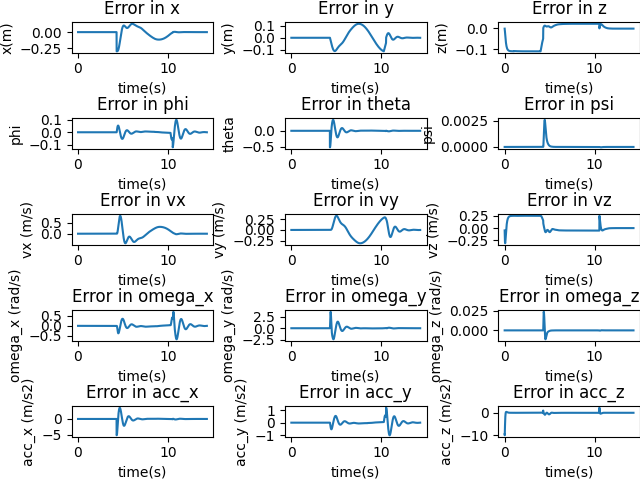
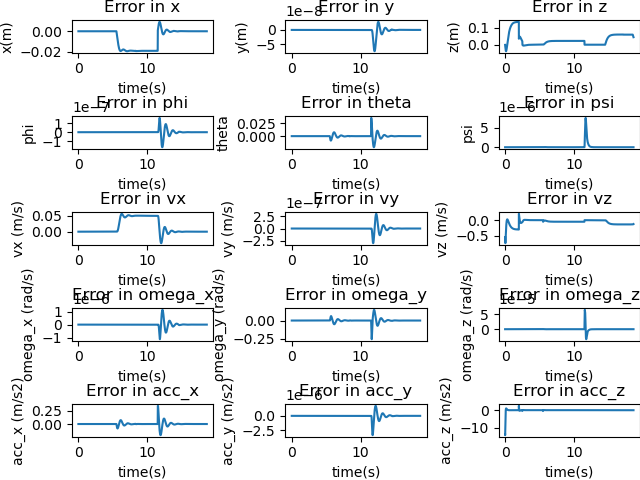
update

diff --git a/traj.py b/traj.py
@@ -17,9 +17,8 @@ class TrajectoryGenerator():
 
     def getDesiredState(self, t):
         ind = max(0, min(len(self.trajectory) - 1, int((t - self.starttime)/self.dt)))
-        # if ind > len(self.trajectory) - 1:
-        #     self.complete = True
-        #     return None
+        if int((t - self.starttime)/self.dt) > len(self.trajectory) - 1:
+            self.complete = True
 
         traj = self.trajectory[ind]
         desired_state_dic = {
@@ -61,39 +60,55 @@ class TrajectoryGenerator():
                 self.times.append(curtime + i)
 
         elif state in [State.HOVER1, State.HOVER2]:
-            for i in np.arange(0, 1, self.dt):
+            for i in np.arange(0, 3, self.dt):
                 self.trajectory.append(desstatevec.copy())
                 self.times.append(curtime + i)
 
         elif state == State.TAKEOFF:
-            duration = 4.0
+            duration = 2.0
             for i in np.arange(0, duration, self.dt):
                 vec = desstatevec.copy() 
-                vec[2] = i/duration
-                # vec[5] = 1.0/duration
+                vec[2] = 0.4*(i/duration)
+                vec[5] = 1.0/duration
                 self.trajectory.append(vec.copy())
                 self.times.append(curtime + i)
+            for i in np.arange(0, 0.5, self.dt):
+                vec = desstatevec.copy() 
+                vec[2] = 0.5
+                vec[5] = 0
+                self.trajectory.append(vec.copy())
+                self.times.append(duration + curtime + i)
 
         elif state == State.TRACK:
-            duration = 6.
-            for i in np.arange(0, duration, self.dt):
-                vec = desstatevec.copy() 
-                # vec[0] = 0.3 * (i/duration)
-                omega = 2*np.pi * i/duration
-                vec[0] = vec[0] + 0.3 * np.cos(omega)
-                vec[1] = vec[1] + 0.3 * np.sin(omega)
+            question = self.question
+            if question == 4:
+                duration = 6.
+                for i in np.arange(0, duration, self.dt):
+                    vec = desstatevec.copy() 
+                    vec[0] = 0.3 * (i/duration)
+                    # omega = 2*np.pi * i/duration
+                    # vec[0] = vec[0] + 0.3 * np.cos(omega)
+                    # vec[1] = vec[1] + 0.3 * np.sin(omega)
 
-                vec[5] = 0.3/duration
-                self.trajectory.append(vec.copy())
-                self.times.append(curtime + i)
+                    vec[5] = 0.3/duration
+                    self.trajectory.append(vec.copy())
+                    self.times.append(curtime + i)
+            if question == 5:
+                duration = 6.
+                for i in np.arange(0, duration, self.dt):
+                    vec = desstatevec.copy() 
+                    vec[2] = 0.1
+                    self.trajectory.append(vec.copy())
+                    self.times.append(curtime + i)
+
 
         elif state == State.LAND:
             height = desstatevec[2]
             duration = 4.0
             for i in np.arange(0, duration, self.dt):
                 vec = desstatevec.copy() 
-                vec[2] = height - i/duration
-                vec[5] = -1/duration
+                vec[2] = height*(1 - i/duration)
+                # vec[5] = -1/duration
                 self.trajectory.append(vec.copy())
                 self.times.append(curtime + i)
 

diff --git a/main_q.py b/main_q.py
@@ -28,7 +28,7 @@ def execute(params : dict, stateManager : StateManager = None):
 
     stateManager.setNextState(t, drone.state)
     
-
+    thrustToMassPlot = []
     while not stateManager.isComplete():
 
         i += 1
@@ -47,10 +47,7 @@ def execute(params : dict, stateManager : StateManager = None):
             "rpm":drone.state[12:16].squeeze()
         }
 
-        # print(current_state_dic)
-        # if i == 2:
-        #     exit()
-        
+
 
         F_desired, desired_state_dic['acc'] = controller.position_controller(current_state_dic, desired_state_dic)
         desired_state_dic["rot"],desired_state_dic["omega"] = controller.attitude_by_flatness(desired_state_dic)        
@@ -79,6 +76,8 @@ def execute(params : dict, stateManager : StateManager = None):
 
         times.append(t)
 
+        thrustToMassPlot.append((drone.thrust) / (params['mass'] * params['gravity']))
+
         # if stateManager.state != State.TAKEOFF:
         #     break
 
@@ -87,22 +86,33 @@ def execute(params : dict, stateManager : StateManager = None):
     actual_desired_state_matrix = np.array(actual_desired_state_matrix).T.squeeze()
     actual_state_matrix = np.array(actual_state_matrix).T.squeeze()
     time_vec = np.array(times)
-    return actual_state_matrix, actual_desired_state_matrix, time_vec
+    plotDic = {
+        'FbyW' : thrustToMassPlot,
+        'actual_state_matrix' : actual_state_matrix,
+        'actual_desired_state_matrix' : actual_desired_state_matrix,
+        'time_vec' : time_vec
+    }
+    
+    return plotDic
 
 
-def plot(actual_state_matrix, actual_desired_state_matrix, time_vec, params):
-    plot_state_error(actual_state_matrix,actual_desired_state_matrix,time_vec, params)
-    plot_position_3d(actual_state_matrix,actual_desired_state_matrix, params)
+def plot(plotDic):
+
+    plt.figure()
+    plt.plot(plotDic['FbyW'], plotDic['time_vec'])
+
+    # plt.figure()
+    plt.show()
+    plot_state_error(plotDic["actual_state_matrix"],plotDic["actual_desired_state_matrix"],plotDic["time_vec"], params)
+    plot_position_3d(plotDic["actual_state_matrix"],plotDic["actual_desired_state_matrix"], params)
     plt.show()  
 
 
         
 def main(params):
     manager = StateManager(params)
-    actual_state_matrix, actual_desired_state_matrix, time_vec = execute(params, manager)
-
-
-    plot(actual_state_matrix, actual_desired_state_matrix, time_vec, params)
+    plotDic = execute(params, manager)
+    plot(plotDic, params)
 
         
 if __name__ == '__main__':

diff --git a/stateManager.py b/stateManager.py
@@ -37,18 +37,22 @@ class StateManager():
             elif self.state == State.TRACK:
                 self.state = State.COMPLETE
 
-        if self.question in [4]:
+        if self.question in [4, 5]:
             self.prevstate = self.state
             self.state = State((self.state.value + 1) % 7)
+        
 
         
         print("State Change |", self.prevstate, '->', self.state)
         self.planner.planTrajectory(t, curstatevec, self.state, )
+        # print(self.planner.trajectory)
 
 
 
     def getDesiredState(self, t, curstatevec):
-        if np.linalg.norm(self.planner.trajectory[-1][:3] - curstatevec[:3]) < 0.05:
+        err = np.linalg.norm(self.planner.trajectory[-1][:3] - curstatevec[:3])
+        print(self.planner.trajectory[-1][:3], curstatevec[:3])
+        if self.planner.complete and  err < 0.045:
             print("REACHED")
             self.setNextState(t, curstatevec)
         a = None        

diff --git a/drone.py b/drone.py
@@ -7,6 +7,7 @@ class Drone:
     def __init__(self, params, initState = np.zeros((16,))):
         self.params = params
         self.state = initState
+        self.thrust = 0
 
     @staticmethod
     def dynamics(t,state,params,F_actual,M_actual,rpm_motor_dot):
@@ -131,6 +132,7 @@ class Drone:
 
     def step(self, F_desired, M_desired ):
         [F_actual,M_actual,rpm_motor_dot] = self.motor_model(F_desired,M_desired)
+        self.thrust = np.linalg.norm(F_actual)
 
         sol = solve_ivp(
             self.dynamics, 
